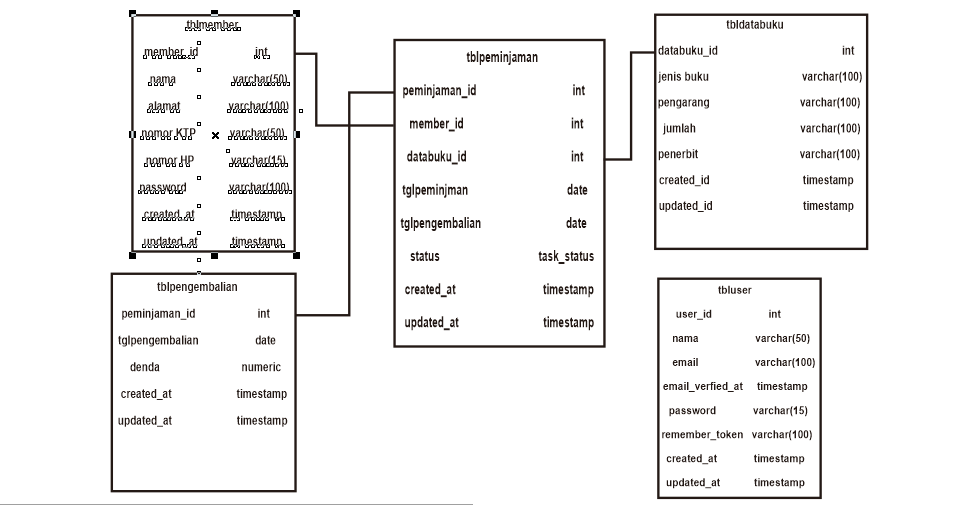
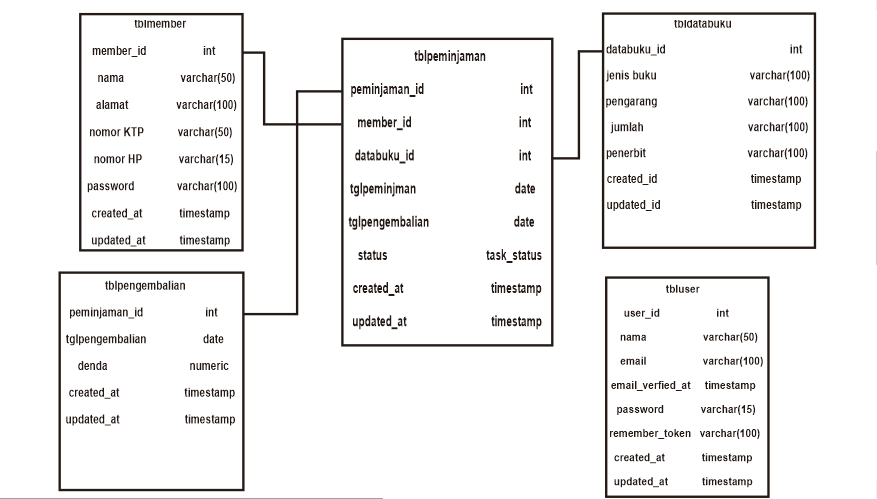
Ganti erd

diff --git a/readme.md b/readme.md
@@ -1,9 +1,9 @@
-<<<<<<< HEAD
+
 # ERD
 ![ERD SIPerpustakaan](erd-perpustakaan.png)
 
 =======
->>>>>>> 161d2da2067d2fae752b3526805b9b240e52ecbc
+
 # Perpustakaan App
 sistem informasi berfungsi untuk melakukan peminjaman buku secara online
 
